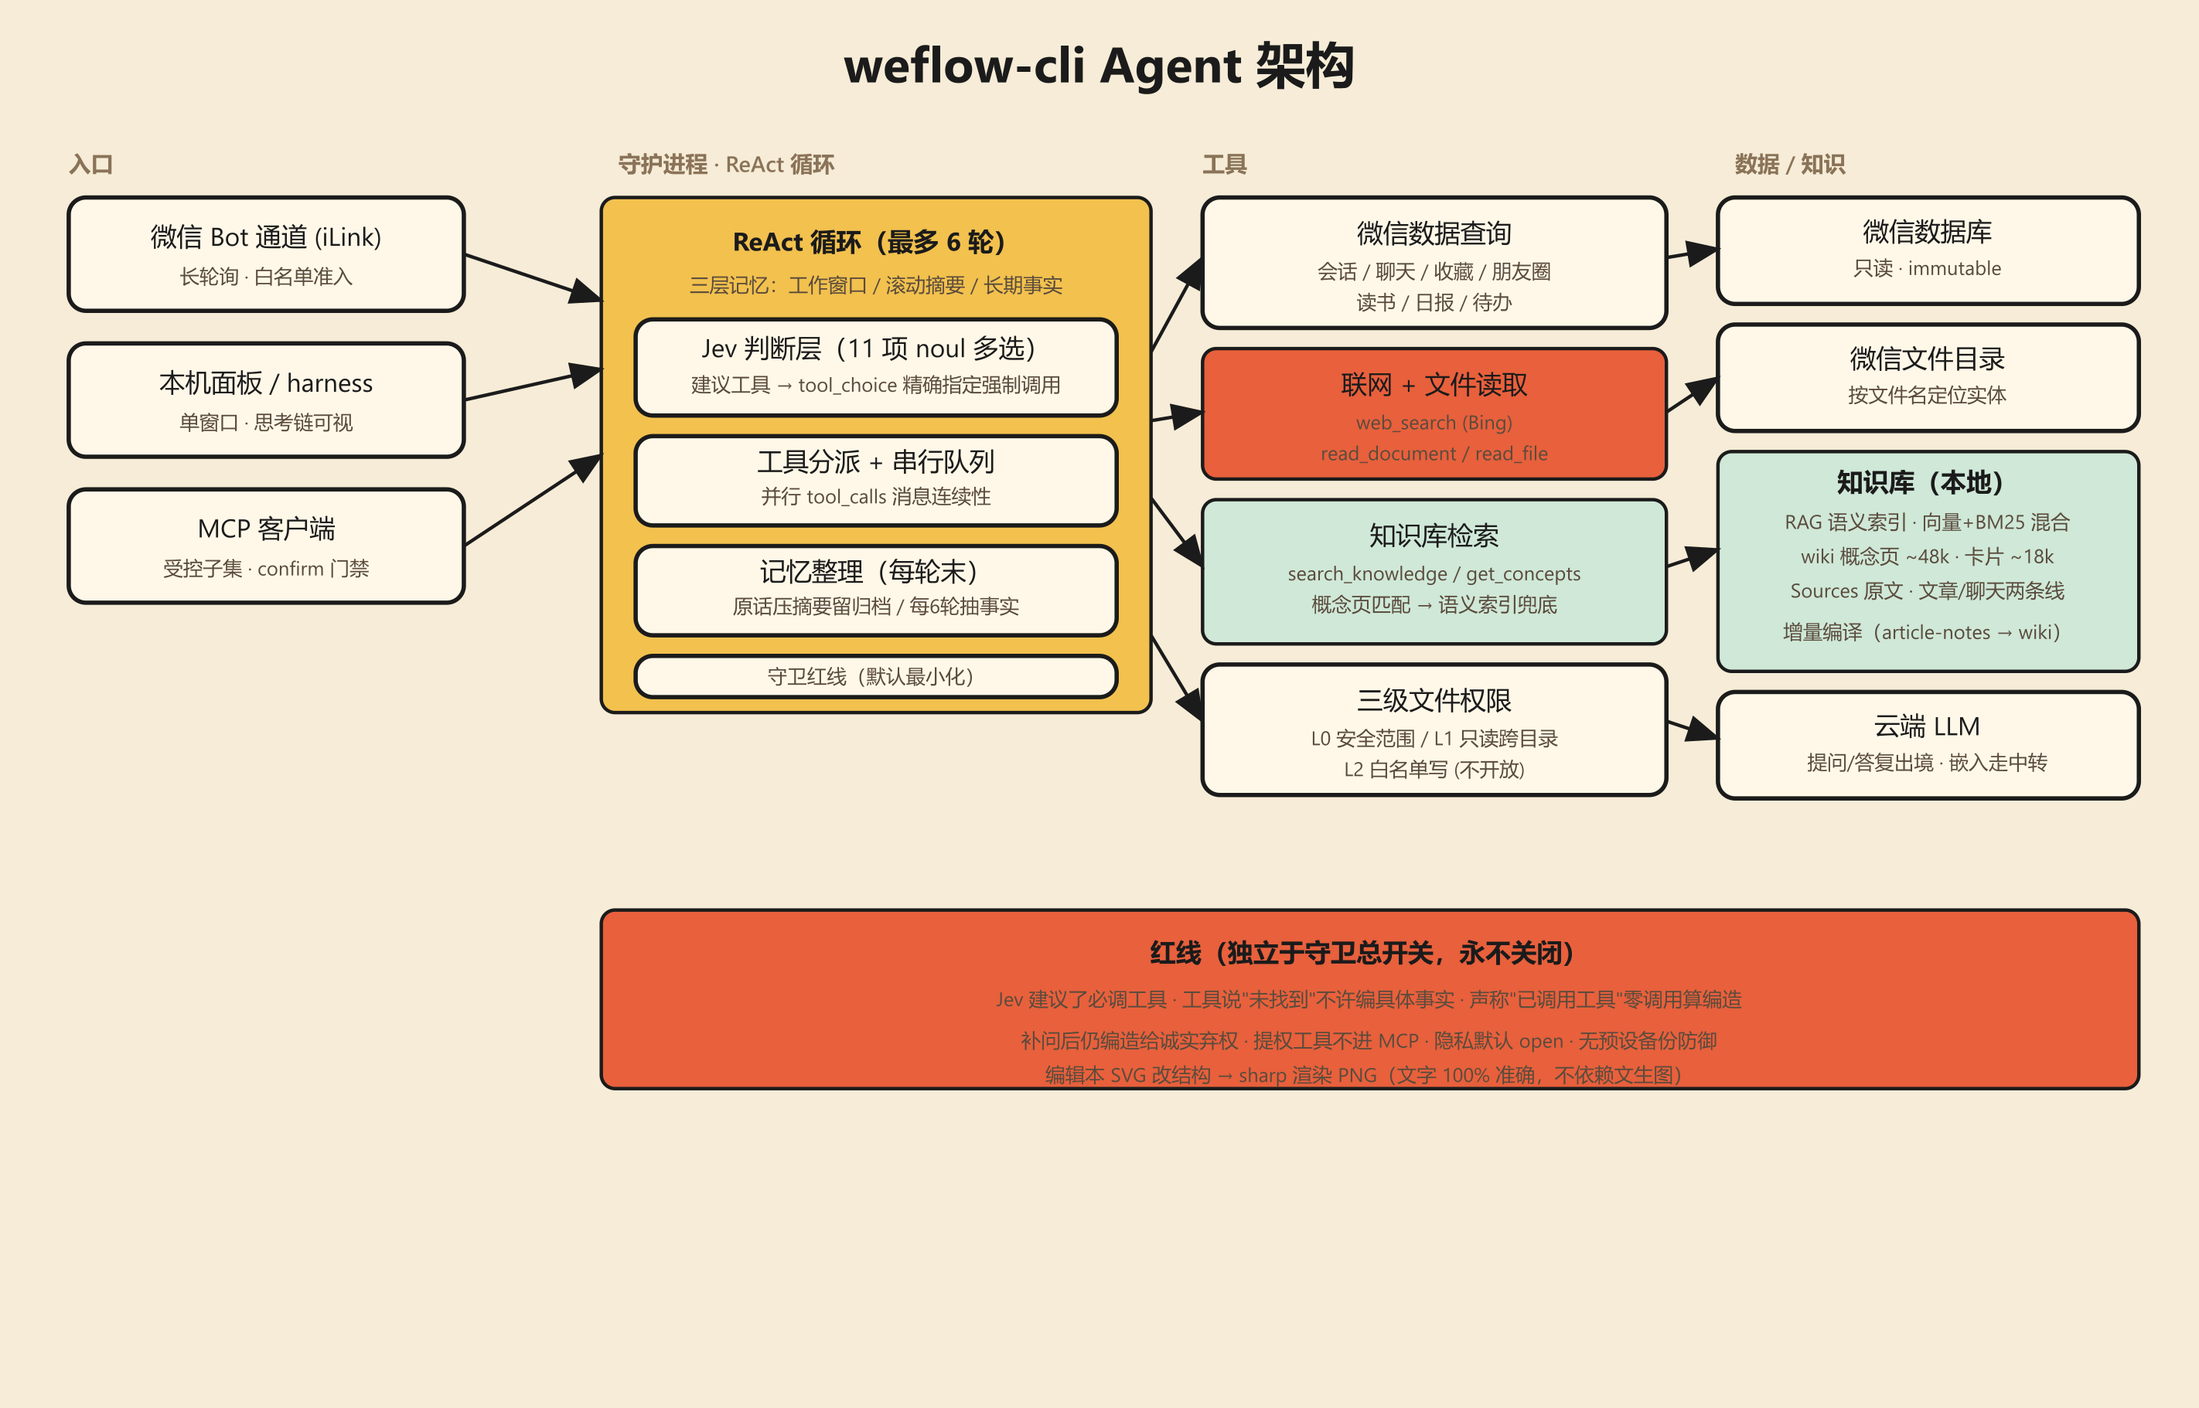
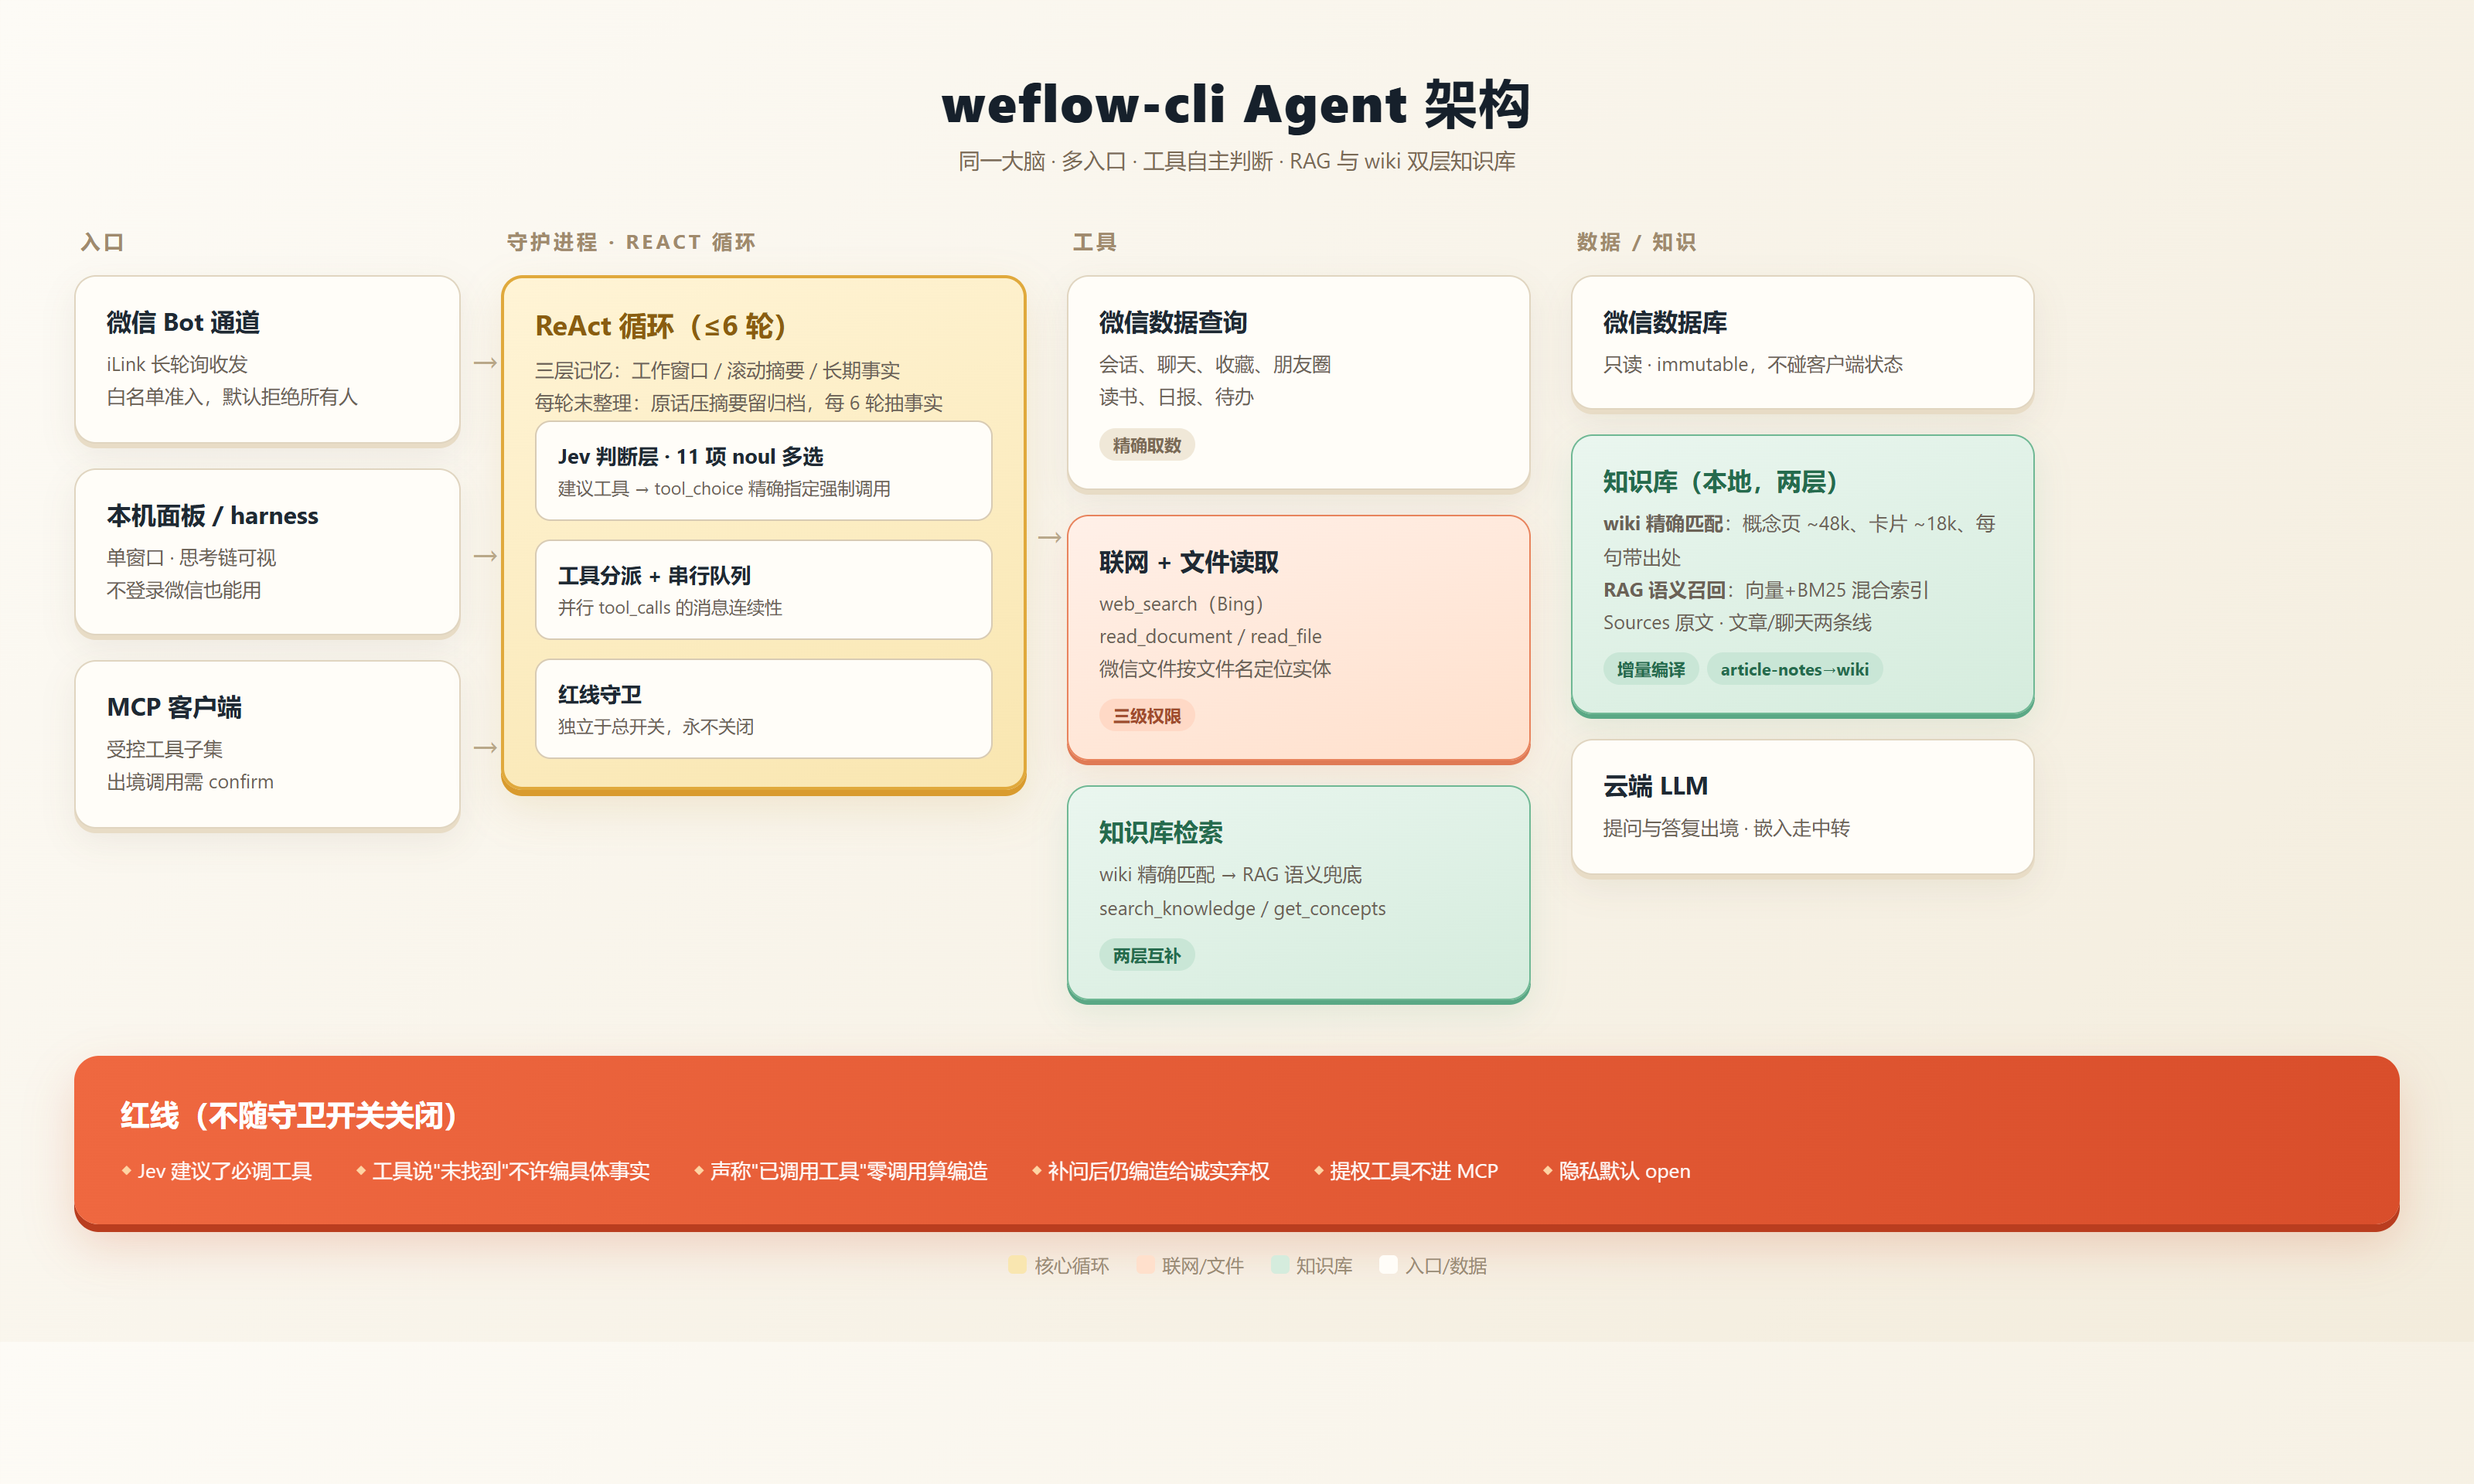
docs: Agent 架构图改用 HTML+CSS 渲染，补知识库两层定位
- 旧的 SVG 源渲染图信息量有限、观感一般；改用 HTML+CSS 卡片式布局，
  playwright 截图成 PNG——文字 100% 准确、卡片阴影/配色/徽章更精致
- 明确知识库两层：wiki 精确匹配（概念页~48k/卡片~18k）+ RAG 语义召回
  （向量+BM25），search_knowledge 先精确后语义兜底
- 可维护源改为 weflow-agent-architecture.html，删旧 SVG，AGENT.md 引用跟上

纯文档改动。

diff --git a/docs/images/weflow-agent-architecture.html b/docs/images/weflow-agent-architecture.html
@@ -1,0 +1,154 @@
+<!DOCTYPE html>
+<html lang="zh-CN">
+<head>
+<meta charset="UTF-8">
+<style>
+  * { margin:0; padding:0; box-sizing:border-box; }
+  body {
+    font-family: "Segoe UI", "Microsoft YaHei", -apple-system, sans-serif;
+    background: linear-gradient(135deg, #fdfbf6 0%, #f3ecdc 100%);
+    padding: 42px 48px;
+    width: 1600px;
+    min-height: auto;
+    color: #1f2933;
+  }
+  h1 {
+    text-align: center; font-size: 34px; font-weight: 800; letter-spacing: 1px;
+    color: #16202b; margin-bottom: 6px;
+  }
+  .subtitle { text-align:center; font-size:14px; color:#7a6a55; margin-bottom: 34px; }
+  .flow { display:grid; grid-template-columns: 250px 340px 300px 300px; gap: 26px; align-items:start; }
+  .col-title {
+    font-size:13px; font-weight:700; color:#a08a6c; text-transform:uppercase;
+    letter-spacing:2px; margin-bottom:14px; padding-left:4px;
+  }
+  .col { display:flex; flex-direction:column; gap:16px; }
+  .card {
+    background:#fffdf8; border:1.5px solid #e0d5c0; border-radius:14px;
+    padding:18px 20px; box-shadow: 0 3px 0 #e8dcc6, 0 8px 22px rgba(80,60,30,.08);
+    position:relative;
+  }
+  .card h3 { font-size:16px; font-weight:700; margin-bottom:7px; }
+  .card p { font-size:12.5px; line-height:1.7; color:#6b6256; }
+  .card.core {
+    background: linear-gradient(160deg,#fff4d6,#f9e6b0);
+    border:2px solid #e0a93c; box-shadow: 0 4px 0 #d99b2e, 0 12px 28px rgba(180,130,30,.15);
+  }
+  .card.core h3 { color:#8a5d10; font-size:18px; }
+  .card.accent {
+    background: linear-gradient(160deg,#fff0e8,#ffe0cc); border-color:#e8835c;
+    box-shadow: 0 3px 0 #e07a55, 0 8px 22px rgba(200,90,50,.12);
+  }
+  .card.kb {
+    background: linear-gradient(160deg,#eaf6ef,#d5ecdd); border-color:#6fb894;
+    box-shadow: 0 3px 0 #5aa885, 0 8px 22px rgba(60,140,100,.12);
+  }
+  .card.kb h3 { color:#256b4d; }
+  .card .tag {
+    display:inline-block; font-size:11px; font-weight:700; padding:3px 9px;
+    border-radius:20px; background:#f0e8d8; color:#7a6a55; margin-top:9px; margin-right:5px;
+  }
+  .card.kb .tag { background:#c9e6d6; color:#256b4d; }
+  .card.accent .tag { background:#ffd9c6; color:#a04b2c; }
+  .inner {
+    background:#fffdf8; border:1.5px solid #d8cbb4; border-radius:10px;
+    padding:12px 14px; margin-top:12px;
+  }
+  .inner h4 { font-size:14px; font-weight:700; margin-bottom:4px; }
+  .inner p { font-size:12px; line-height:1.6; color:#6b6256; }
+  .arrow {
+    position:absolute; right:-26px; top:50%; transform:translateY(-50%);
+    font-size:22px; color:#b9a98c;
+  }
+  .core-stack { display:flex; flex-direction:column; gap:12px; }
+  .mini {
+    background:#fffdf8; border:1.5px solid #d8cbb4; border-radius:10px; padding:12px 14px;
+  }
+  .mini h4 { font-size:13.5px; font-weight:700; margin-bottom:3px; }
+  .mini p { font-size:11.5px; line-height:1.5; color:#6b6256; }
+  .footer {
+    margin-top:36px; background:linear-gradient(100deg,#ef6840,#d94e2b);
+    border-radius:16px; padding:24px 30px; color:#fff;
+    box-shadow: 0 5px 0 #b93d1f, 0 14px 30px rgba(200,70,30,.2);
+  }
+  .footer h2 { font-size:19px; font-weight:800; margin-bottom:12px; }
+  .footer ul { list-style:none; display:flex; flex-wrap:wrap; gap:10px 28px; }
+  .footer li { font-size:13px; opacity:.96; line-height:1.8; }
+  .footer li::before { content:"◆ "; color:#ffd9a8; }
+  .legend { margin-top:18px; text-align:center; font-size:12px; color:#9a8b74; }
+  .legend span { display:inline-block; width:12px; height:12px; border-radius:3px; margin:0 5px -1px 14px; }
+</style>
+</head>
+<body>
+<h1>weflow-cli Agent 架构</h1>
+<div class="subtitle">同一大脑 · 多入口 · 工具自主判断 · RAG 与 wiki 双层知识库</div>
+
+<div class="flow">
+  <!-- 入口 -->
+  <div>
+    <div class="col-title">入口</div>
+    <div class="col">
+      <div class="card"><h3>微信 Bot 通道</h3><p>iLink 长轮询收发<br>白名单准入，默认拒绝所有人</p><span class="arrow">→</span></div>
+      <div class="card"><h3>本机面板 / harness</h3><p>单窗口 · 思考链可视<br>不登录微信也能用</p><span class="arrow">→</span></div>
+      <div class="card"><h3>MCP 客户端</h3><p>受控工具子集<br>出境调用需 confirm</p><span class="arrow">→</span></div>
+    </div>
+  </div>
+
+  <!-- ReAct -->
+  <div>
+    <div class="col-title">守护进程 · ReAct 循环</div>
+    <div class="card core">
+      <h3>ReAct 循环（≤6 轮）</h3>
+      <p>三层记忆：工作窗口 / 滚动摘要 / 长期事实<br>每轮末整理：原话压摘要留归档，每 6 轮抽事实</p>
+      <div class="core-stack">
+        <div class="mini"><h4>Jev 判断层 · 11 项 noul 多选</h4><p>建议工具 → tool_choice 精确指定强制调用</p></div>
+        <div class="mini"><h4>工具分派 + 串行队列</h4><p>并行 tool_calls 的消息连续性</p></div>
+        <div class="mini"><h4>红线守卫</h4><p>独立于总开关，永不关闭</p></div>
+      </div>
+      <span class="arrow">→</span>
+    </div>
+  </div>
+
+  <!-- 工具 -->
+  <div>
+    <div class="col-title">工具</div>
+    <div class="col">
+      <div class="card"><h3>微信数据查询</h3><p>会话、聊天、收藏、朋友圈<br>读书、日报、待办</p><span class="tag">精确取数</span></div>
+      <div class="card accent"><h3>联网 + 文件读取</h3><p>web_search（Bing）<br>read_document / read_file<br>微信文件按文件名定位实体</p><span class="tag">三级权限</span></div>
+      <div class="card kb"><h3>知识库检索</h3><p>wiki 精确匹配 → RAG 语义兜底<br>search_knowledge / get_concepts</p><span class="tag">两层互补</span></div>
+    </div>
+  </div>
+
+  <!-- 数据/知识 -->
+  <div>
+    <div class="col-title">数据 / 知识</div>
+    <div class="col">
+      <div class="card"><h3>微信数据库</h3><p>只读 · immutable，不碰客户端状态</p></div>
+      <div class="card kb"><h3>知识库（本地，两层）</h3>
+        <p><b>wiki 精确匹配</b>：概念页 ~48k、卡片 ~18k、每句带出处<br><b>RAG 语义召回</b>：向量+BM25 混合索引<br>Sources 原文 · 文章/聊天两条线</p>
+        <span class="tag">增量编译</span><span class="tag">article-notes→wiki</span>
+      </div>
+      <div class="card"><h3>云端 LLM</h3><p>提问与答复出境 · 嵌入走中转</p></div>
+    </div>
+  </div>
+</div>
+
+<div class="footer">
+  <h2>红线（不随守卫开关关闭）</h2>
+  <ul>
+    <li>Jev 建议了必调工具</li>
+    <li>工具说"未找到"不许编具体事实</li>
+    <li>声称"已调用工具"零调用算编造</li>
+    <li>补问后仍编造给诚实弃权</li>
+    <li>提权工具不进 MCP</li>
+    <li>隐私默认 open</li>
+  </ul>
+</div>
+<div class="legend">
+  <span style="background:#f9e6b0"></span>核心循环
+  <span style="background:#ffe0cc"></span>联网/文件
+  <span style="background:#d5ecdd"></span>知识库
+  <span style="background:#fffdf8"></span>入口/数据
+</div>
+</body>
+</html>
